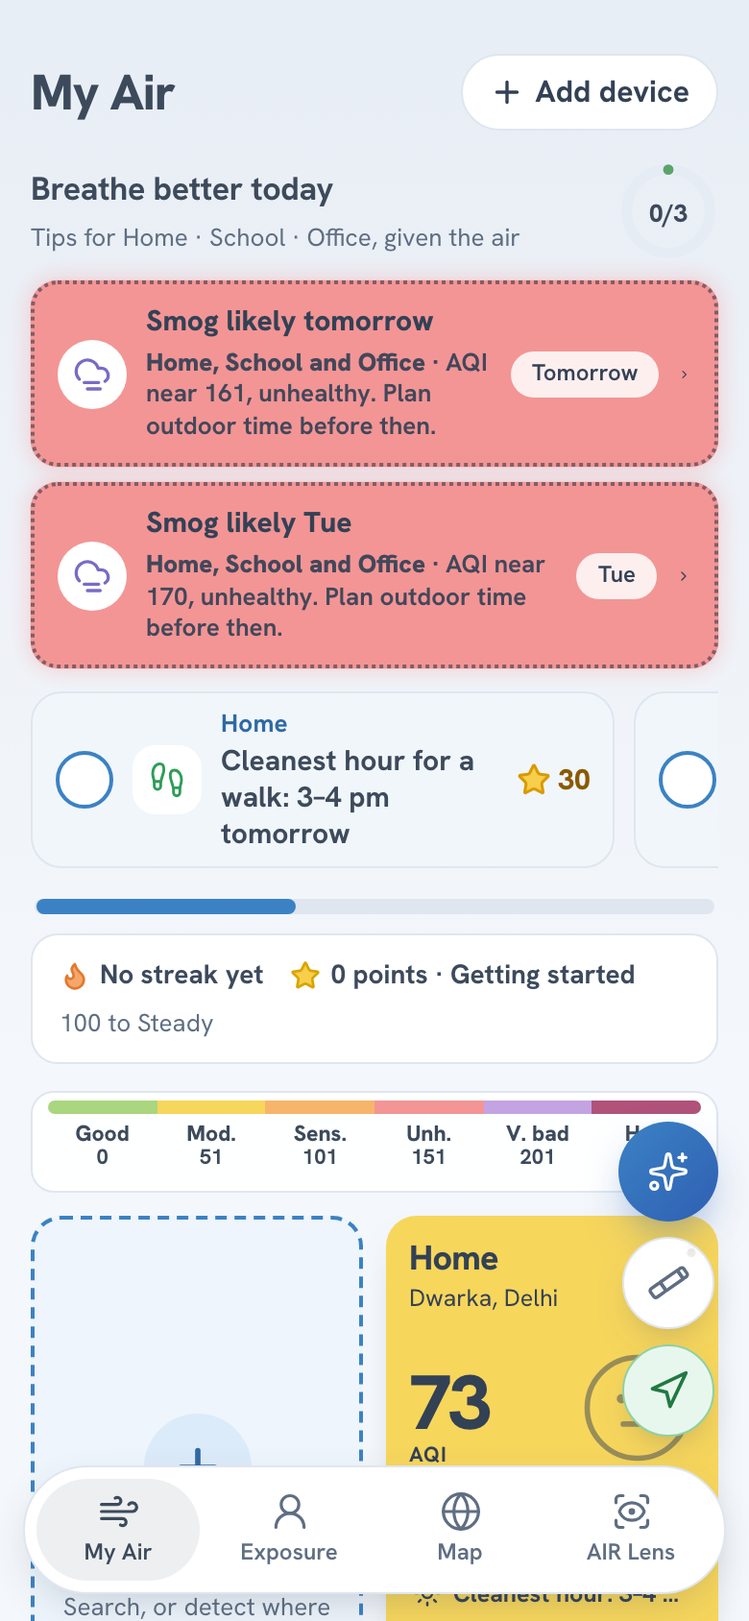
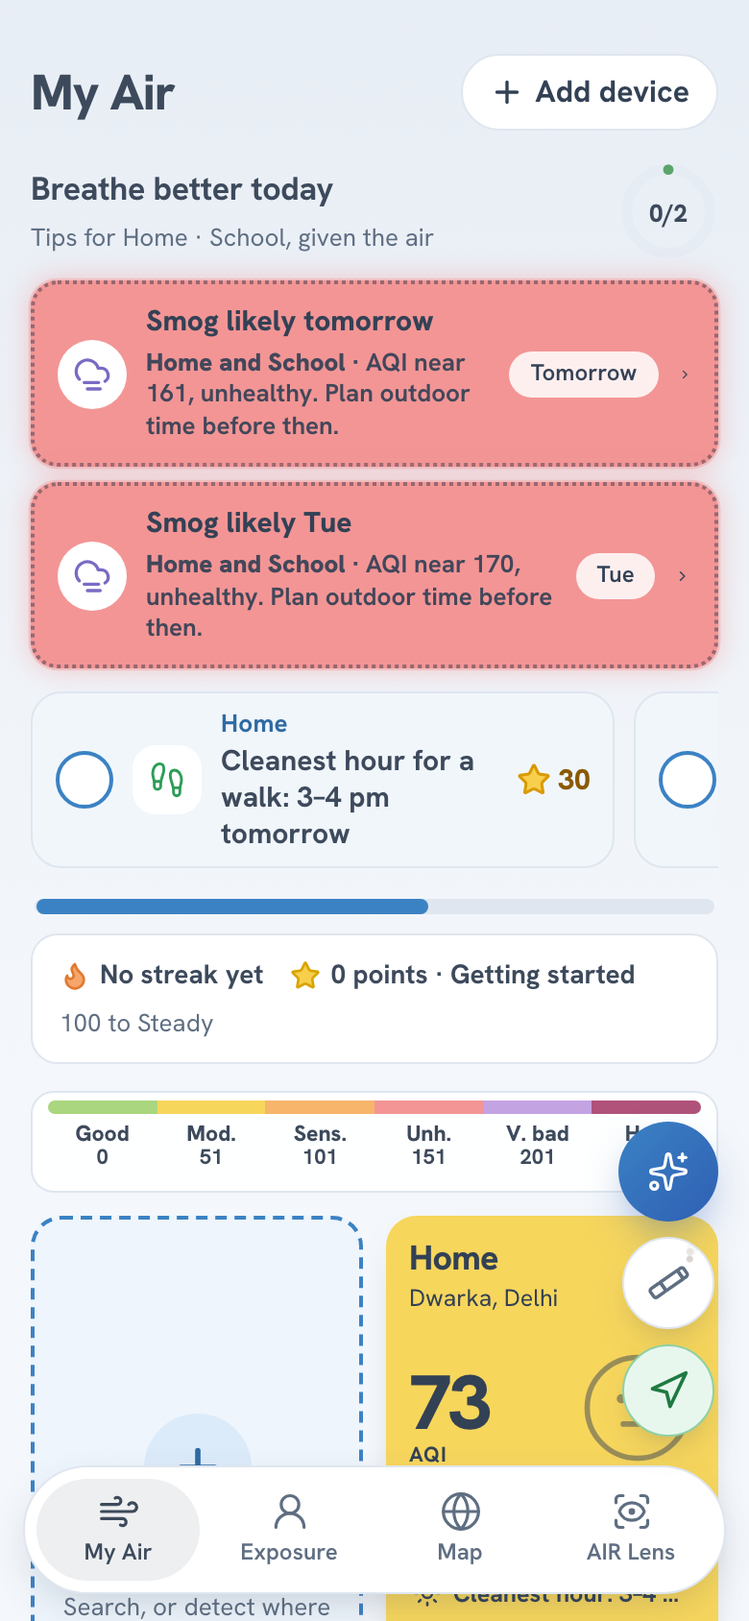
feat(myair): link recorded days on My Air screen, update navigation presets and contributions

diff --git a/apps/web/src/myair/MyAirScreen.tsx b/apps/web/src/myair/MyAirScreen.tsx
@@ -1,4 +1,4 @@
-import { Plus, Wand2 } from 'lucide-react';
+import { ExternalLink, Plus } from 'lucide-react';
 import { useEffect, useMemo, useState } from 'react';
 import { useSearchParams } from 'react-router-dom';
 import { useTodays } from '../air/store';
@@ -11,7 +11,6 @@ import { alertsFor, type Alert } from '../alerts/model';
 import { useFires } from '../alerts/useFires';
 import { TipsCard } from '../tasks/ui/TipsCard';
 import { AddDeviceSheet } from '../devices/ui/AddDeviceSheet';
-import { applyPreset } from '../places/preset';
 import { PlacesPanel } from '../places/ui/PlacesPanel';
 import type { PlaceMatch } from '../data/geocode';
 
@@ -127,19 +126,12 @@ export function MyAirScreen({ search, locate, address }: Props): React.JSX.Eleme
           </button>
         </div>
         {pins.length === 0 && (
-          <p className="preset-line">
-            <button
-              type="button"
-              className="preset-button"
-              onClick={() => {
-                applyPreset(window.localStorage);
-              }}
-            >
-              <Wand2 size={16} strokeWidth={2.25} aria-hidden="true" /> Use preset
-            </button>
+          <p className="demo-line">
+            <a href="#/week" target="_blank" rel="noopener" className="demo-button">
+              <ExternalLink size={16} strokeWidth={2.25} aria-hidden="true" /> See the recorded days
+            </a>
             <span className="muted small">
-              A family with Home, School, Office and Park, read live. Replace them with your own any
-              time.
+              Seven real days from the archive, played through this app, in a new tab.
             </span>
           </p>
         )}

diff --git a/apps/web/src/myair/MyAirDemoLink.test.tsx b/apps/web/src/myair/MyAirDemoLink.test.tsx
@@ -1,0 +1,43 @@
+// @vitest-environment jsdom
+import { cleanup, render, screen } from '@testing-library/react';
+import { MemoryRouter } from 'react-router-dom';
+import { afterEach, beforeEach, describe, expect, it } from 'vitest';
+import { setStarterPins } from '../data/pins';
+import { MyAirScreen } from './MyAirScreen';
+
+beforeEach(() => {
+  window.localStorage.clear();
+  // The deployed app starts a new person with no places.
+  setStarterPins([]);
+});
+afterEach(() => {
+  cleanup();
+  window.localStorage.clear();
+});
+
+const open = (): void => {
+  render(
+    <MemoryRouter>
+      <MyAirScreen />
+    </MemoryRouter>,
+  );
+};
+
+describe('The recorded days link on My Air', () => {
+  it('is offered to a person with no places, and opens the recorded days in a new tab', () => {
+    open();
+    const link = screen.getByRole('link', { name: /See the recorded days/u });
+    expect(link).toHaveAttribute('href', '#/week');
+    expect(link).toHaveAttribute('target', '_blank');
+    expect(link).toHaveAttribute('rel', expect.stringContaining('noopener'));
+  });
+
+  it('is not shown to someone who already has places', () => {
+    window.localStorage.setItem(
+      'aerovigil.pins.v1',
+      JSON.stringify([{ id: '28.59,77.05', name: 'Mine', lat: 28.5921, lng: 77.046 }]),
+    );
+    open();
+    expect(screen.queryByRole('link', { name: /See the recorded days/u })).not.toBeInTheDocument();
+  });
+});

diff --git a/apps/web/src/styles.css b/apps/web/src/styles.css
@@ -6516,25 +6516,26 @@ table.hourly .row-label {
   margin-top: 4px;
 }
 
-/* The preset: one tap to see the app with a profile already there */
+/* The recorded days: one tap, in a new tab, to see the app on seven real past days */
 
-.preset-line {
+.demo-line {
   display: flex;
   flex-wrap: wrap;
   align-items: center;
   gap: 8px 12px;
   margin: 10px 0 0;
 }
-.preset-button {
+.demo-button {
+  text-decoration: none;
   display: inline-flex;
   align-items: center;
   gap: 6px;
   min-height: 40px;
   padding: 0 16px;
-  border: 1px solid var(--ink);
+  border: 1px solid #bcd3ee;
   border-radius: 999px;
-  background: var(--ink);
-  color: #fff;
+  background: #e8f1fb;
+  color: #1f4f8f;
   font: inherit;
   font-weight: 700;
   cursor: pointer;

diff --git a/packages/data/src/windGrid.ts b/packages/data/src/windGrid.ts
@@ -156,7 +156,7 @@ export function metNoWindGridRepo(options: MetNoWindGridOptions = {}): WindGridR
   const baseUrl = options.baseUrl ?? 'https://api.met.no/weatherapi/locationforecast/2.0/compact';
   const fetchImpl = options.fetchImpl ?? fetch;
   const userAgent =
-    options.userAgent ?? 'AeroVigilAir/0.1 github.com/devprashant19/AeroVigil (air quality app, prototype)';
+    options.userAgent ?? 'TheAeroVigilProject/0.1 github.com/devprashant19/aerovigil (air quality app)';
   const concurrency = Math.max(1, options.concurrency ?? 8);
   const fetchAll = async (): Promise<readonly WindPoint[]> => {
     const wanted = metNoWindPoints();

diff --git a/apps/web/src/demo/DeviceShell.test.tsx b/apps/web/src/demo/DeviceShell.test.tsx
@@ -67,7 +67,7 @@ describe('the prototype shell', () => {
     await userEvent.click(screen.getByRole('button', { name: 'Laptop' }));
     expect(screen.queryByText('5:30 pm')).not.toBeInTheDocument();
     expect(screen.getByRole('button', { name: 'Reload the app' })).toBeInTheDocument();
-    expect(screen.getByText(/aerovigilair\.in/u)).toBeInTheDocument();
+    expect(screen.getByText(/aerovigil/u)).toBeInTheDocument();
   });
 
   it('starts over: forgets saved places and reloads the app', async () => {

diff --git a/packages/data/src/windGrid.test.ts b/packages/data/src/windGrid.test.ts
@@ -141,7 +141,7 @@ describe('the second source, MET Norway', () => {
     const points = await repo.grid();
     expect(points).toHaveLength(metNoWindPoints().length);
     expect([...agents]).toHaveLength(1);
-    expect([...agents][0]).toMatch(/AeroVigilAir/u);
+    expect([...agents][0]).toMatch(/TheAeroVigilProject/u);
     expect(most).toBeLessThanOrEqual(5);
     expect(points[0]?.speed).toBeGreaterThan(0);
   });

diff --git a/packages/watch/src/webhook.ts b/packages/watch/src/webhook.ts
@@ -72,7 +72,7 @@ async function handleMessage(
       {
         kind: 'reply',
         chatId,
-        text: 'AeroVigil Labs Watch. Send /link <code> to connect your role, /unlink to stop and delete your data here.',
+        text: 'AeroVigil Watch. Send /link <code> to connect your role, /unlink to stop and delete your data here.',
       },
     ];
   }

diff --git a/apps/web/src/demo/DeviceShell.tsx b/apps/web/src/demo/DeviceShell.tsx
@@ -77,7 +77,7 @@ function BrowserBar({
           <RotateCw size={16} />
         </button>
         <span className="url" aria-hidden="true">
-          <Lock size={13} /> aerovigilair.in
+          <Lock size={13} /> aerovigil
         </span>
       </div>
     </div>

diff --git a/docs/AS-BUILT.md b/docs/AS-BUILT.md
@@ -46,7 +46,7 @@ Checked against the deployed stack and the live address on 11 October 2026. Ever
 | Tips by the timetable           | The tips and alerts are worked out from the family's timetable (home, each school, work), not from where the phone is: a person on the move can do little about the air around them. Home gets the walk, windows and mask tips; each school gets where its morning assembly should be, what its GRAP stage means for sport and play, and how each child who goes there will breathe through their school day. Alerts from several places are merged and say where they apply.                                                                                                                                                                                                                                                                                                                                                                                                                                                                                                                                                                                                                                                                                                                                                                                                                                                                                                                                                                                                                                                                                          |
 | A school and a child            | Setting a school asks who goes there: you, your child, or just watch the air. For a child, a short form takes their name and age and adds them to the family with the school set as theirs, without turning your own day into a school day. A school added from Exposure's Add a person is pinned on My Air as well, and any school (called one, or set as someone's) shows its assembly line.                                                                                                                                                                                                                                                                                                                                                                                                                                                                                                                                                                                                                                                                                                                                                                                                                                                                                                                                                                                                                                                                                                                                                                         |
 | Asking about today's walk       | With a GRAP stage likely the assistant says to walk or exercise indoors, and still gives the cleanest hour for anyone who must go out; with none it gives the best hour and how long to stay out.                                                                                                                                                                                                                                                                                                                                                                                                                                                                                                                                                                                                                                                                                                                                                                                                                                                                                                                                                                                                                                                                                                                                                                                                                                                                                                                                                                      |
-| Use preset                      | On My Air, when a person has no places, **Use preset** loads four places (Home, School, Office, Park in Delhi) and two people (a parent who works and Asha, nine, at school) with their usual days. It sets places and people only; every reading at those places is the real, live one, and the person can remove or replace them. It is not offered once there are places, so it never overwrites someone's own.                                                                                                                                                                                                                                                                                                                                                                                                                                                                                                                                                                                                                                                                                                                                                                                                                                                                                                                                                                                                                                                                                                                                                     |
+| See the recorded days           | On My Air, when a person has no places, a button opens `/#/week` in a new tab: the recorded days, seven real past days played through the app. It changes nothing on this device (the recorded days keep their own state in memory), and it is not shown once there are places.                                                                                                                                                                                                                                                                                                                                                                                                                                                                                                                                                                                                                                                                                                                                                                                                                                                                                                                                                                                                                                                                                                                                                                                                                                                                                        |
 | My Air grid                     | There is no search bar: the first card adds a place (search, or Detect my location), and the cards can be dragged into a new place in the grid, snapping to it, with the order kept. The live card glows with a red dot and a LIVE pill, says "Same as Home" when it is at a saved place and otherwise "Live location" with an Outdoor tag, and shows its address under it.                                                                                                                                                                                                                                                                                                                                                                                                                                                                                                                                                                                                                                                                                                                                                                                                                                                                                                                                                                                                                                                                                                                                                                                            |
 | Who a place is for              | A place called Home, Work, School or Park asks who it is for, with the likely people ticked (a school for the children, home for everyone), or "Someone new" to add them. Each person's own day gets it.                                                                                                                                                                                                                                                                                                                                                                                                                                                                                                                                                                                                                                                                                                                                                                                                                                                                                                                                                                                                                                                                                                                                                                                                                                                                                                                                                               |
 | The GPS switch                  | The third round button, with Ask and cigarettes. It is the app's own switch for using the device's location at all, apart from Detect my location, which is one use of it. With it off nothing asks the device, and Detect my location and the automatic exposure say why they are unavailable.                                                                                                                                                                                                                                                                                                                                                                                                                                                                                                                                                                                                                                                                                                                                                                                                                                                                                                                                                                                                                                                                                                                                                                                                                                                                        |

diff --git a/README.md b/README.md
@@ -10,7 +10,7 @@ Code for a Billion Bharat Hackathon submission, August to November 2026.
 
 ## It is all real data
 
-Every number in the live app comes from a real source (OpenAQ monitors, Open-Meteo weather, forecast and wind, MET Norway wind as a second source, NASA FIRMS fires) through our own API on AWS. There is no demo mode and no made-up number in the deployed bundle; `make prove` fails if one gets in. **Use preset** on My Air (shown only when you have no places) loads a family with Home, School, Office and Park so you can see a filled profile at once: it sets places and people, and every reading at them is still the real, live one.
+Every number in the live app comes from a real source (OpenAQ monitors, Open-Meteo weather, forecast and wind, MET Norway wind as a second source, NASA FIRMS fires) through our own API on AWS. There is no demo mode and no made-up number in the deployed bundle; `make prove` fails if one gets in. **See the recorded days** on My Air (shown only when you have no places) opens the recorded days in a new tab, so you can see every feature on seven real past days without waiting for a bad one.
 
 **The recorded days is real too.** Open `/#/week` and the same app plays seven real days from last winter, one at a time, as if each were today at 8 am: 7 Oct 2025 (rain, and the cleanest of the seven), 21 Oct (the day after Diwali, GRAP Stage IV by our estimate), 31 Oct (stubble fires), 9 Nov (smog, Stage III), 22 Dec (smog, Stage II), 23 Jan 2026 (heavy rain clears the smog overnight) and 30 Mar (wind). The air comes from four Delhi monitors in OpenAQ's public archive, the weather from Open-Meteo's archive, the fires from NASA FIRMS. It is there so you can see every feature without waiting for a bad day, and the page says it is recorded. Cleaning is two rules, written in the file and counted (see [`docs/AS-BUILT.md`](docs/AS-BUILT.md)).
 
@@ -18,7 +18,7 @@ The only made-up days in the repository are in the separate prototype build (`np
 
 ## Try it in two minutes
 
-1. Open the live address. Press **Use preset** for a filled profile, or add a place (search, or "Detect my location"): its card shows the AQI, the weather, the nearest monitor's name, distance and age, and today and the next two days.
+1. Open the live address. Add a place (search, or "Detect my location"): its card shows the AQI, the weather, the nearest monitor's name, distance and age, and today and the next two days.
 2. Open the card: **Insights for this place** (a school's morning assembly, a walk in a park, alerts that apply there).
 3. Open the **Map** (every monitor, wind, fires), **Exposure** (the air a person breathed, hour by hour) and **AIR Lens** (the air as particles in front of the camera).
 4. Press the round **Ask** button and ask "When can I walk today?" in English or हिन्दी. Fixed rules decide the answer; the model only rewords it.
@@ -98,7 +98,7 @@ Needs Node 22 or later.
 
 ```bash
 npm ci
-make prove     # lint, types, every test (1,255), cdk synth, and a check that the deployed bundle holds no prototype code
+make prove     # lint, types, every test (1,253), cdk synth, and a check that the deployed bundle holds no prototype code
 make local-api # in one terminal: the API on your machine (real monitors need OPENAQ_API_KEY in the environment)
 make local     # in another: the app on your machine, reading it
 ```
@@ -131,29 +131,29 @@ The stack deploys with `cd infra && npx cdk deploy`. It needs three secrets made
 
 ## Documents
 
-|                                   |                                                                              |
-| --------------------------------- | ---------------------------------------------------------------------------- |
-| `docs/AS-BUILT.md`                | What is live, what is not                                                    |
-| `docs/architecture.md`            | The parts, the data, and the Well-Architected pillars                        |
-| `docs/architecture-animated.html` | An animated diagram of the same, for the video (open it in a browser)        |
-| `docs/safety.md`                  | Every rule, how it is enforced, the test that proves it                      |
-| `docs/AGENT-BOUNDARIES.md`        | What the AI may and may not do                                               |
-| `docs/claims.md`                  | Every public claim, and what supports it                                     |
-| `docs/cost.md`                    | What it costs, per unit and at each limit                                    |
-| `docs/PURIFIER.md`                | The cleaner prototype: the build, the airflow measured, what that is not     |
-| `docs/COMPARISON.md`              | The Dyson HushJet figures and what can honestly be said beside ours          |
-| `docs/UNIT.md`                    | The measuring unit: parts, wiring, protocol, what may be said                |
-| `docs/LIVE-CHECKLIST.md`          | What was checked on the live address, and what was found                     |
-| `docs/SUBMISSION.md`              | The words for the form, the video script, the AI tools used, feedback on AWS |
-| `docs/blog.md`                    | The write-up                                                                 |
-| `docs/learning-log.md`            | What broke and how it was fixed                                              |
-| `docs/IMPLEMENTATION-PLAN.md`     | The plan the deployed app was first built to (historical)                    |
-| `CONTRIBUTIONS.md`                | Who did what, and how AI was used                                            |
-| `DESIGN.md`                       | The visual design brief                                                      |
+|                                   |                                                                                 |
+| --------------------------------- | ------------------------------------------------------------------------------- |
+| `docs/AS-BUILT.md`                | What is live, what is not                                                       |
+| `docs/architecture.md`            | The parts, the data, and the Well-Architected pillars                           |
+| `docs/architecture-animated.html` | An animated diagram of the same, for the video (open it in a browser)           |
+| `docs/safety.md`                  | Every rule, how it is enforced, the test that proves it                         |
+| `docs/AGENT-BOUNDARIES.md`        | What the app's assistant may and may not do                                     |
+| `docs/claims.md`                  | Every public claim, and what supports it                                        |
+| `docs/cost.md`                    | What it costs, per unit and at each limit                                       |
+| `docs/PURIFIER.md`                | The cleaner prototype: the build, the airflow measured, what that is not        |
+| `docs/COMPARISON.md`              | The Dyson HushJet figures and what can honestly be said beside ours             |
+| `docs/UNIT.md`                    | The measuring unit: parts, wiring, protocol, what may be said                   |
+| `docs/LIVE-CHECKLIST.md`          | What was checked on the live address, and what was found                        |
+| `docs/SUBMISSION.md`              | The words for the form, the video script, the AI services used, feedback on AWS |
+| `docs/blog.md`                    | The write-up                                                                    |
+| `docs/learning-log.md`            | What broke and how it was fixed                                                 |
+| `docs/IMPLEMENTATION-PLAN.md`     | The plan the deployed app was first built to (historical)                       |
+| `CONTRIBUTIONS.md`                | Who did what, and how AI was used                                               |
+| `DESIGN.md`                       | The visual design brief                                                         |
 
-## AI tools used
+## AI in the app
 
-AgentFoundry (AF) wrote and tested most of the code and the documents, directed and reviewed by me, the only author ([`CONTRIBUTIONS.md`](CONTRIBUTIONS.md)). At run time, Amazon Bedrock (Nova Micro, behind a guardrail) rewords the assistant's answers and cannot act ([`docs/AGENT-BOUNDARIES.md`](docs/AGENT-BOUNDARIES.md)).
+At run time, Amazon Bedrock (Nova Micro, behind a guardrail) rewords the assistant's answers, or answers from the facts it is given, and cannot act ([`docs/AGENT-BOUNDARIES.md`](docs/AGENT-BOUNDARIES.md)). I am the only author ([`CONTRIBUTIONS.md`](CONTRIBUTIONS.md)).
 
 ## Licence
 

diff --git a/CONTRIBUTIONS.md b/CONTRIBUTIONS.md
@@ -1,48 +1,47 @@
 # Contributions
 
-I built this alone, and I used an AI coding assistant for most of the typing. This page says what that means.
+I built the AeroVigil Project alone. This page says what I did and what I delivered.
 
 ## What I did
 
 - **Decided what to build and what not to claim.** I chose the problem (a Delhi family or school that has the air-quality
   numbers but not an answer), the screens, the rules the app must never break (`docs/safety.md`), and the limits on what it
   says: a GRAP stage is our estimate, a reading older than six hours is not used, nothing is called "scientific-grade".
-- **Directed and reviewed every change.** The assistant wrote code; I read what it built, ran it, looked at it on screen at a
-  phone's width, and sent it back when it was wrong or confusing. I kept the design light and plain, asked for components to be
-  reused so screens stay consistent, and refused demo shortcuts: there is no demo mode in the live app, and the recorded days
-  uses only real archived data.
+- **Reviewed and ran every change.** I read each change, ran it, looked at it on screen at a phone's width, and sent it back
+  when it was wrong or confusing. I kept the design light and plain, kept components shared so screens stay consistent, and
+  refused demo shortcuts: there is no made-up data in the live app, and the recorded days use only real archived data. Every
+  change went through `make prove` (lint, types, 1,253 tests, `cdk synth`, a bundle check) before I accepted it.
 - **Ran it on AWS, in my own account.** The stack lives in my account. I put the provider keys (OpenAQ, NASA FIRMS) into
   Secrets Manager myself, from the clipboard, never typed into a chat. Each deploy and site upload was done when I asked for
-  it, followed by the smoke check on the live address, and I renewed the OpenAQ key when it was rejected on the last night.
+  it, followed by the smoke check on the live address, and I replaced the OpenAQ key after it was rejected late on 10 October.
 - **Built the cleaner prototype.** I built it step by step (a box, a centrifugal fan, a pleated filter, a foam pre-filter) and
   measured its outlet airflow with a handheld anemometer: about 191 cfm. That is airflow, not CADR, which I have not
   measured (`docs/PURIFIER.md`).
 - **Built the measuring unit.** I sourced the parts, wired the Sensirion SPS30 to an ESP32-S3 over UART, and powered and
-  tested it on my desk (the firmware was flashed from my machine with the Arduino tools): the serial monitor showed the sensor's readings, I connected the live site to it over
-  Bluetooth from Chrome on my Mac, and when it showed "no reading" after the app connected, I reported it and tested the fix on
-  the board. I also saw that the first firmware did not match my wiring and had it rewritten.
-- **Checked what the app claims.** I asked that every claim be sourced or dropped, which is why `docs/claims.md` lists what we
-  do not say (a station's cost, the unit's cost, "ten years", accuracy) until there is evidence.
+  tested it on my desk (the firmware was flashed from my machine with the Arduino tools): the serial monitor showed the
+  sensor's readings, I connected the live site to it over Bluetooth from Chrome on my Mac, and when it showed "no reading"
+  after the app connected, I tested the fix on the board.
+- **Checked what the app claims.** Every claim is sourced or dropped, which is why `docs/claims.md` lists what we do not say
+  (a station's cost, the unit's cost, "ten years", accuracy) until there is evidence.
 
-## What the AI did
+## What the app does at run time
 
-- **AgentFoundry (AF)** wrote and tested most of the code, the firmware and the documents in this repository, in long working
-  sessions, from my instructions: the app and its tests, the API, the CDK stack, the Hindi answers' framework, the recorded
-  week and its recording script, the Bluetooth link, the live chart, and this documentation. Every change went through
-  `make prove` (lint, types, 1,255 tests, `cdk synth`, a bundle check) before I accepted it.
-- **At run time**, Amazon Bedrock (Nova Micro, behind a guardrail) only rewords answers that fixed rules already decided, and
-  every number in its wording is checked. It has no tools and cannot act. Amazon Polly reads answers aloud. See
-  `docs/AGENT-BOUNDARIES.md`.
+Amazon Bedrock (Nova Micro, behind a guardrail) rewords answers that fixed rules already decided, or answers a question no
+rule covers from the facts it is given. Every number in its wording is checked against the facts, and it has no tools and
+cannot act. Amazon Polly reads answers aloud. See `docs/AGENT-BOUNDARIES.md`.
 
-## Where the AI was wrong, and I caught it
+## Faults I caught
 
-- It advised that a particle sensor could be called "reference-grade" and quoted costs with no source. Neither is claimed
+- An early draft called a particle sensor "reference-grade" and quoted costs with no source. Neither is claimed
   (`docs/claims.md`).
-- Its first firmware assumed an I2C wiring on an ESP32 DevKit. My board is an ESP32-S3 wired over UART, so it was rewritten
+- The first firmware assumed an I2C wiring on an ESP32 DevKit. My board is an ESP32-S3 wired over UART, so it was rewritten
   for the real wiring, compiled and run.
 - The unit's page first repeated the same figures in five cards; I asked for one screen, a chart and the room's numbers side by
   side, then the day and a few insights.
 - The unit's chart first drew as a black line, and its first card overflowed on My Air: both were found by looking at my own
   screenshots, then fixed.
-- The sensor stopped answering as soon as Bluetooth connected. I saw "no reading" in the app, we read the serial log, and the
-  firmware now restarts it. `docs/learning-log.md` lists these and the rest.
+- The sensor stopped answering as soon as Bluetooth connected. I saw "no reading" in the app, I read the serial log, and the
+  firmware now restarts it.
+- On 11 October my own screenshot showed AQI 500 beside "GRAP Stage II". The estimate used the last 24 hours the monitor had,
+  not the last 24 hours, and stretched one hour's PM10 over the day. It is fixed and checked against the monitors' own PM10
+  on 24 station-days. `docs/learning-log.md` lists these and the rest.

diff --git a/docs/blog.md b/docs/blog.md
@@ -16,11 +16,11 @@ You add the places you care about: Home, a school, an office, a park. Each card 
 Around My Air are a map of monitors, wind and satellite fires, AIR Lens (the air drawn as particles in front of your camera), an assistant, and Exposure, which adds up what a person breathed, hour by hour.
 
 ![Six screens of the app](images/collage-features.jpg)
-_The six screens. Top row: My Air on live data with the preset's places; the recorded days on 21 Oct 2025, where the alert is GRAP Stage IV, the app's estimate from the last 24 hours; the map on 31 Oct 2025 with NASA satellite fire detections and wind. Bottom row: AIR Lens; the assistant; Exposure. All but My Air on live data are from the recorded days._
+_The six screens. Top row: My Air on live data with four places set; the recorded days on 21 Oct 2025, where the alert is GRAP Stage IV, the app's estimate from the last 24 hours; the map on 31 Oct 2025 with NASA satellite fire detections and wind. Bottom row: AIR Lens; the assistant; Exposure. All but My Air on live data are from the recorded days._
 
 A small measuring unit, an ESP32-S3 board with a Sensirion SPS30 laser particle sensor, adds the air in one room over Bluetooth.
 
-I built the whole thing alone, with an AI coding assistant (AgentFoundry (AF)). I chose what it should do and what it must never claim. The assistant wrote most of the code, and I read every change and sent it back when it was wrong. I wired, flashed and tested the unit and built the cleaner myself. The stack runs in my own AWS account.
+I built the whole thing alone. I chose what it should do and what it must never claim, and I read, ran and tested every change. I wired, flashed and tested the unit and built the cleaner myself. The stack runs in my own AWS account.
 
 ## The one rule: code decides, AI only words
 
@@ -30,7 +30,7 @@ The app has an assistant you can ask, in English or Hindi, "When can I go for a 
 
 ## It is all real data
 
-The deployed app has no made-up data. A prototype build with invented days lives in the repo and is never uploaded, and `make prove` checks the bundle for it. A Use preset button loads a sample family's places, and the air at them is still read live. The live app reads real monitors (OpenAQ), weather, forecast and wind (Open-Meteo, with MET Norway as a second wind source) and satellite fires (NASA FIRMS), through my own API on AWS. So that you can see every feature without waiting for a bad day, the app also replays seven recorded days (https://d3sqz5i7m8h3wk.cloudfront.net/#/week): rain in early October, the morning after Diwali, stubble fires, November and December smog, a January downpour and a windy March day, each played as if it were today at 8 am. Every screen says "recorded". The air comes from four Delhi monitors in OpenAQ's public archive, and the weather and fires are archives too.
+The deployed app has no made-up data. A prototype build with invented days lives in the repo and is never uploaded, and `make prove` checks the bundle for it. The live app reads real monitors (OpenAQ), weather, forecast and wind (Open-Meteo, with MET Norway as a second wind source) and satellite fires (NASA FIRMS), through my own API on AWS. So that you can see every feature without waiting for a bad day, the app also replays seven recorded days (https://d3sqz5i7m8h3wk.cloudfront.net/#/week, which a button on My Air opens in a new tab): rain in early October, the morning after Diwali, stubble fires, November and December smog, a January downpour and a windy March day, each played as if it were today at 8 am. Every screen says "recorded". The air comes from four Delhi monitors in OpenAQ's public archive, and the weather and fires are archives too.
 
 The archive had mess in it, so I cleaned it with two written rules. The first drops a PM2.5 of 999 or more (the feed's "out of range"), a PM10 of 2,000 or more, and a PM10 below the same hour's PM2.5, which real air cannot give. The second drops a monitor's hour when it reads over three times the median of at least two others and is itself high (PM2.5 over 200, PM10 over 500). The file counts what the second rule removed: 86 lone spikes across the seven days. I changed nothing else. In the recorded days the map's wind is one recorded wind for central Delhi, drawn the same everywhere, and the map says so.
 
@@ -100,7 +100,7 @@ Other fixes are in [`docs/learning-log.md`](learning-log.md).
 
 ## Numbers
 
-- 1,255 tests pass in one command, `make prove`, which also runs lint, types, `cdk synth`, and a check that the deployed bundle holds no prototype code.
+- 1,253 tests pass in one command, `make prove`, which also runs lint, types, `cdk synth`, and a check that the deployed bundle holds no prototype code.
 - The stack costs about $4.50 a month idle, at list prices. An assistant question costs about $0.0008 (almost all of it the guardrail), and a visit at most $0.00014.
 - Caps: 40 assistant questions per caller and 500 a day, 12,000 spoken characters per caller and 60,000 a day, 25 API requests a second. One parameter switches the assistant off.
 
@@ -110,4 +110,4 @@ One cost is not capped: a flood against CloudFront itself. The stack makes its o
 
 Next is the smoke-decay test with the unit beside the cleaner: raise the room's PM2.5 with incense, log how fast it falls with the cleaner off, then on, and fit the decay. The room page's "Purifier on" marker is that same test, live. After that, I will put the unit beside a monitor for a few days and publish the difference. Later come Telegram alerts with a screen to link a chat, and the unit's readings sent to my API so a school can see many rooms.
 
-Code: https://github.com/devprashant19/AeroVigil
+Code: https://github.com/devprashant19/aerovigil
